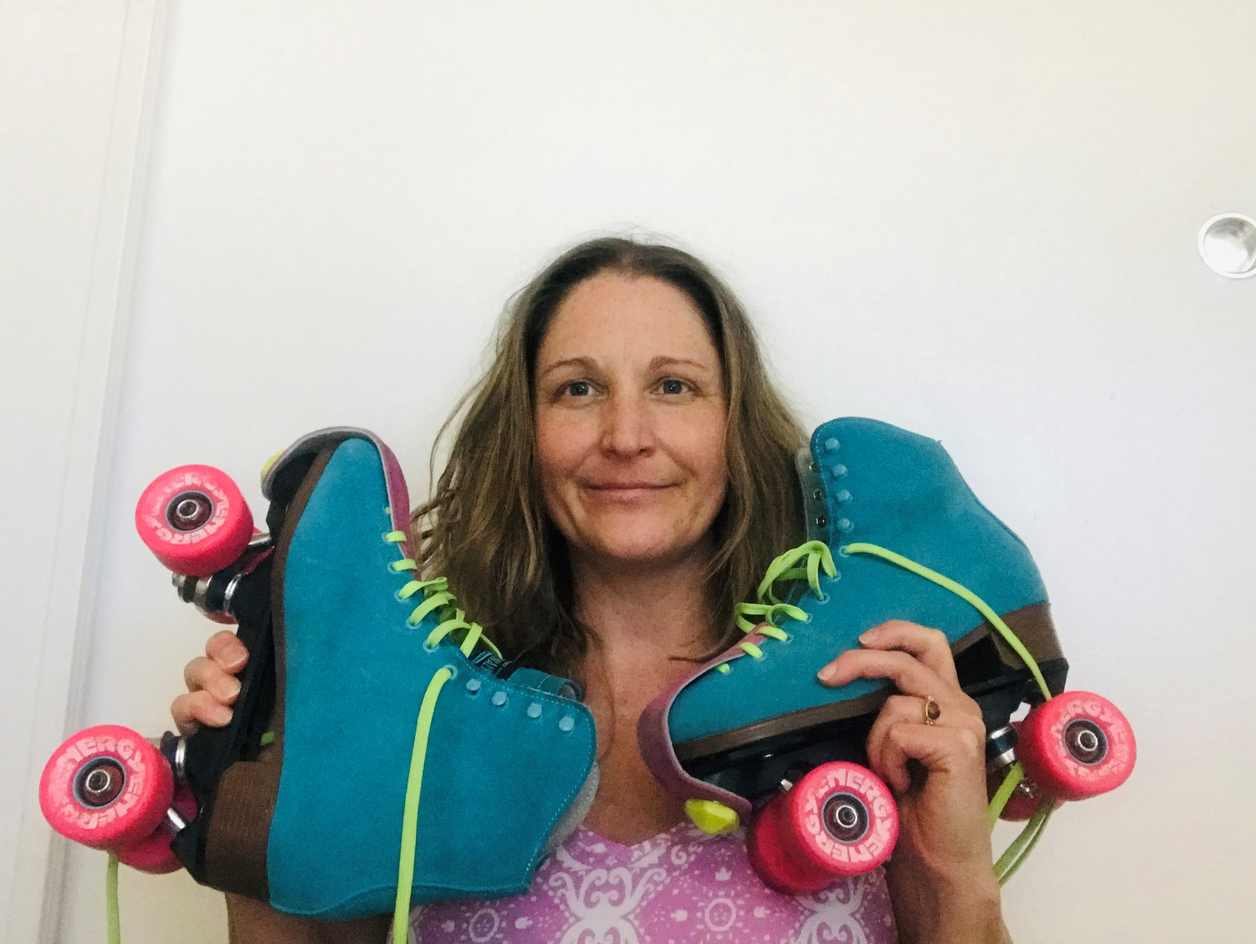
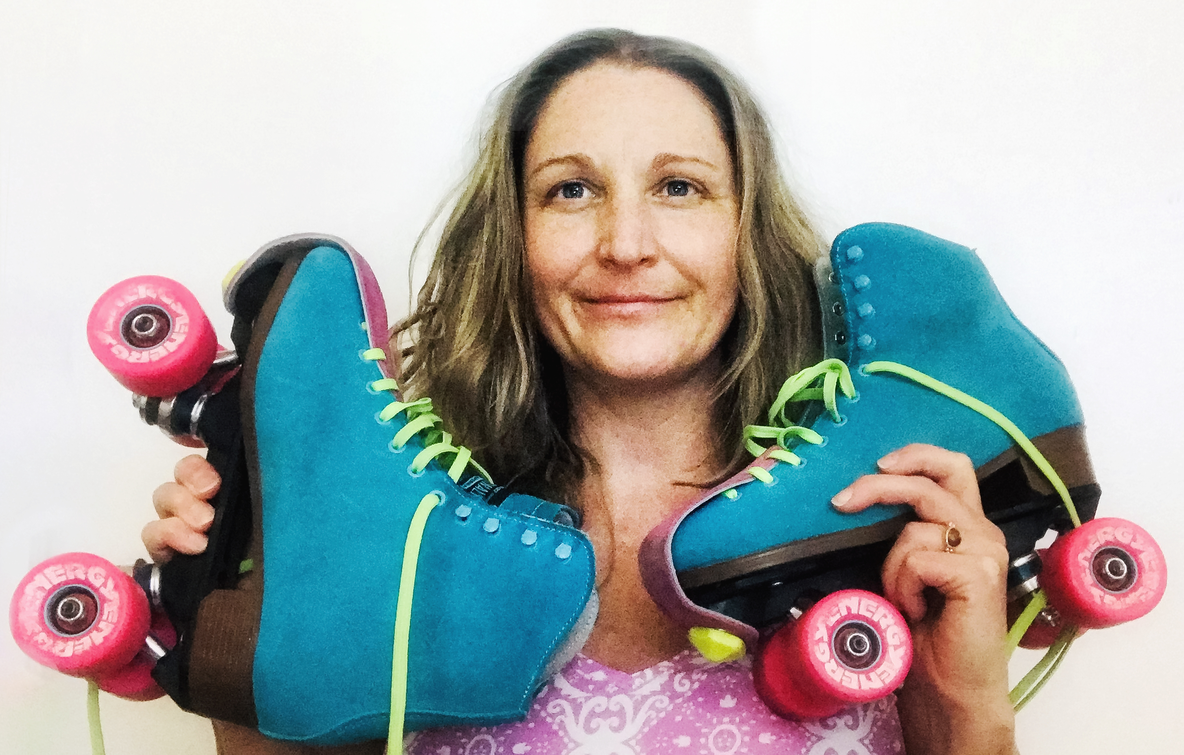
Added images for Rebecca and Shane; message from Jim.

diff --git a/index.html b/index.html
@@ -27,103 +27,111 @@
         <a href="https://aeieng.com/"> <img src="img\AEI_logo_white-knockout-sm.png" class="aei-logo" alt="AEI logo"></a>
       </nav>
 
-    <!-- Title -->
-    <div class="row">
+      <!-- Title -->
+      <div class="row">
 
-            <div class="col-lg-6">
-              <h1 class="big-heading">Proud to rock our <br /><span class="extra-lg-h1">Geek Style</span> for Engineers' Week <br /> 2021.</h1>
-            </div>
+        <div class="col-lg-6">
+          <h1 class="big-heading">Proud to rock our <br /><span class="extra-lg-h1">Geek Style</span> for Engineers' Week <br /> 2021.</h1>
+        </div>
 
-            <div class="col-lg-6">
-              <img class="title-image" src="img\brandon-glasses-1.png" alt="girl geek">
-            </div>
-
-          </div>
+        <div class="col-lg-6">
+          <img class="title-image" src="img\brandon-glasses-1.png" alt="girl geek">
+        </div>
 
       </div>
 
     </div>
+
+    </div>
   </section>
 
-  <section class="thank-you-section" id="pricing">
+  <section class="thank-you-section">
 
     <h2 class="section-heading">A Big Geeky Thank-You from AEI</h2>
-    <p class="long-text">Lorem ipsum dolor sit amet, consectetur adipisicing elit, sed do eiusmod tempor incididunt ut labore et dolore magna aliqua. Ut enim ad minim veniam, quis nostrud exercitation ullamco laboris nisi ut aliquip ex ea commodo consequat. Duis aute irure dolor in reprehenderit in voluptate velit esse cillum dolore eu fugiat nulla pariatur. Excepteur sint occaecat cupidatat non proident, sunt in culpa qui officia deserunt mollit anim id est laborum.</p>
+    <p class="long-text">Dear Friends, a year has gone by and another National Engineers Week is upon us!! And what a year it has been!! As we have adapted to working remotely, new technologies, virtual has become real. Through all of this we here at AEI have truly missed our in-person interactions with each of you. But making the best of things, we have found a silver lining in all of this. As you can see, working remotely has freed us to embrace our inner engineering tendencies to the fullest!! So this Engineering Week we encourage you to get those cellphone belt holders, plastic pocket protectors and all the plaid you have out and celebrate with us!!!</p>
+
+    <p class="long-text">We truly value your friendship. Look forward to seeing you in-person soon. Stay well. Stay safe.
+    </p>
 
     <hr />
   </section>
 
   <section id="img-masonry">
     <main>
-        <article>
-          <img src="img\darren.jpg" class="masonry-img">
-          <h3>Darren</h3>
-          <p>
-            Just honing my skills!
-          </p>
+      <article>
+        <img src="img\darren.jpg" class="masonry-img">
+        <h3>Darren</h3>
+        <p>
+          Just honing my skills!
+        </p>
+      </article>
 
-        </article>
-        <article>
-          <img src="img\marciek.jpg" class="masonry-img">
-          <h3>Marcie</h3>
-          <p>
-            Engineering from home: construction management.
+      <article>
+        <img src="img\rebecca.jpg" class="masonry-img">
+        <h3>Rebecca</h3>
+        <p>
+          "DIY aerodynamics... Testing on myself!"
+        </p>
+      </article>
 
-          </p>
-        </article>
-        <article>
-          <img src="img/davec.jpg" class="masonry-img">
-          <h3>Dave</h3>
-          <p>
-            Dave services his home coffee roaster: "High-quality coffee is the key to success!"
-          </p>
-        </article>
-        <article>
-          <img src="img\jim.jpg" class="masonry-img">
-          <h3>Jim</h3>
-          <p>
-            Who need's a computer?
-          </p>
-        </article>
-        <article>
-          <img src="img\seanl.jpg" class="masonry-img">
-          <h3>Sean</h3>
-          <p>
-            At home and work, everything must be to spec!
-          </p>
-        </article>
-        <article>
-          <img src="img\gamer.jpeg" class="masonry-img">
-          <h3>Brandon</h3>
-          <p>
-            Caption goes here.
-          </p>
-        </article>
-        <article>
-          <img src="img\vanderpool.jpg" class="masonry-img">
-          <h3>Robbie</h3>
-          <p>
-            Look what I created with my 3D printer!
-          </p>
-        </article>
+      <article>
+        <img src="img/davec.jpg" class="masonry-img">
+        <h3>Dave</h3>
+        <p>
+          Dave services his home-built coffee roaster: "High-quality coffee is the key to success!"
+        </p>
+      </article>
 
-        <article>
-          <img src="img\tony.jpg" class="masonry-img">
-          <h3>Tony</h3>
-          <p>
+      <article>
+        <img src="img\jim.jpg" class="masonry-img">
+        <h3>Jim</h3>
+        <p>
+          Who need's a computer?
+        </p>
+      </article>
+
+      <article>
+        <img src="img\seanl.jpg" class="masonry-img">
+        <h3>Sean</h3>
+        <p>
+          At home and work, everything must be to spec!
+        </p>
+      </article>
+
+      <article>
+        <img src="img\brandon.jpg" class="masonry-img">
+        <h3>Brandon</h3>
+        <p>
+          "Lost communications...?? I wonder if this is 6A or fiber?!?"
+        </p>
+      </article>
+
+      <article>
+        <img src="img\shane.jpg" class="masonry-img">
+        <h3>Shane</h3>
+        <p>
+          Trucks, water pumps, and prized Piggly-Wiggly hat!
+        </p>
+      </article>
+
+      <article>
+        <img src="img\tony.jpg" class="masonry-img">
+        <h3>Tony</h3>
+        <p>
           Whether working in the field or working in the yard, Tony ensures proper excavation and trenching and restoration to grade to when complete.
-          </p>
-        </article>
-        <article>
-          <img src="img/vincent.jpg" class="masonry-img">
-          <h3>Vincent</h3>
-          <p>
-            [Caption]
-          </p>
-        </article>
+        </p>
+      </article>
+
+      <article>
+        <img src="img/vincent.jpg" class="masonry-img">
+        <h3>Vincent</h3>
+        <p>
+          [Caption]
+        </p>
+      </article>
 
 
-      </main>
+    </main>
 
 
 

diff --git a/css/styles.css b/css/styles.css
@@ -35,9 +35,7 @@ h3 {
 	text-align: center;
 }
 
-article p {
-  text-align: center;
-}
+
 
 /* Title Row Classes & IDs */
 #title {
@@ -82,8 +80,9 @@ article p {
 /* Thank-you section */
 
 .thank-you-section {
-  margin: 10px auto;
+  margin: 10px auto 20px auto;
   padding-bottom: 1rem;
+
 }
 
 /* Masonry */
@@ -91,6 +90,8 @@ article p {
 .masonry-img {
   transition: all .2s ease-in-out;
   opacity: 0.5;
+  overflow-y:visible;
+
 }
 
 .masonry-img:hover {
@@ -98,13 +99,14 @@ article p {
   opacity: 1;
   border: 5px solid #fff;
   box-shadow: 5px 5px 3px grey;
+
 }
 
 
 .long-text {
   font-size: 1.1rem;
   line-height: 1.8rem;
-  margin: auto;
+  margin: 0 auto 15px auto;
   width: 80%;
 }
 
@@ -132,4 +134,5 @@ main {
 article {
   break-inside: avoid-column;
   margin-bottom: 1rem;
+
 }
